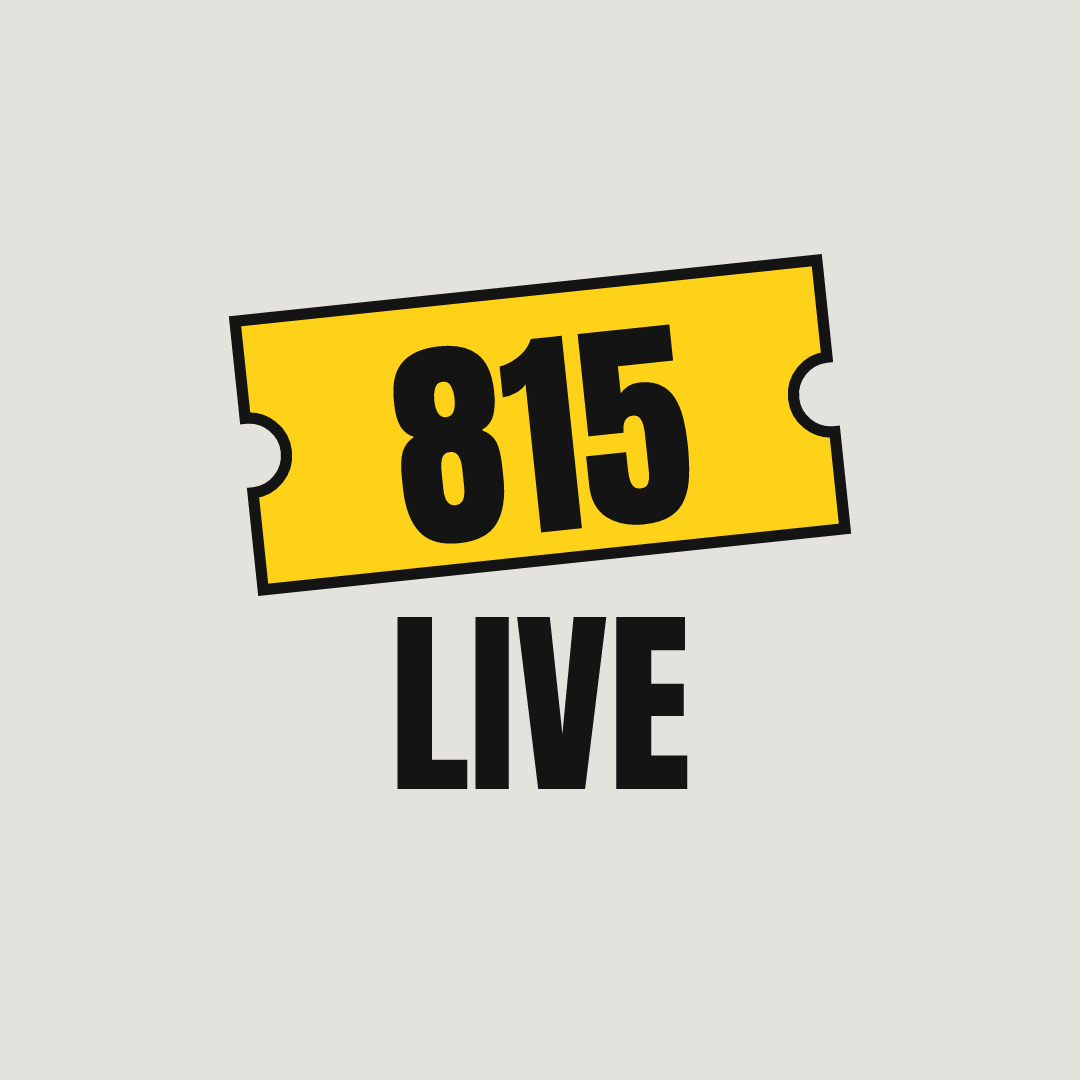
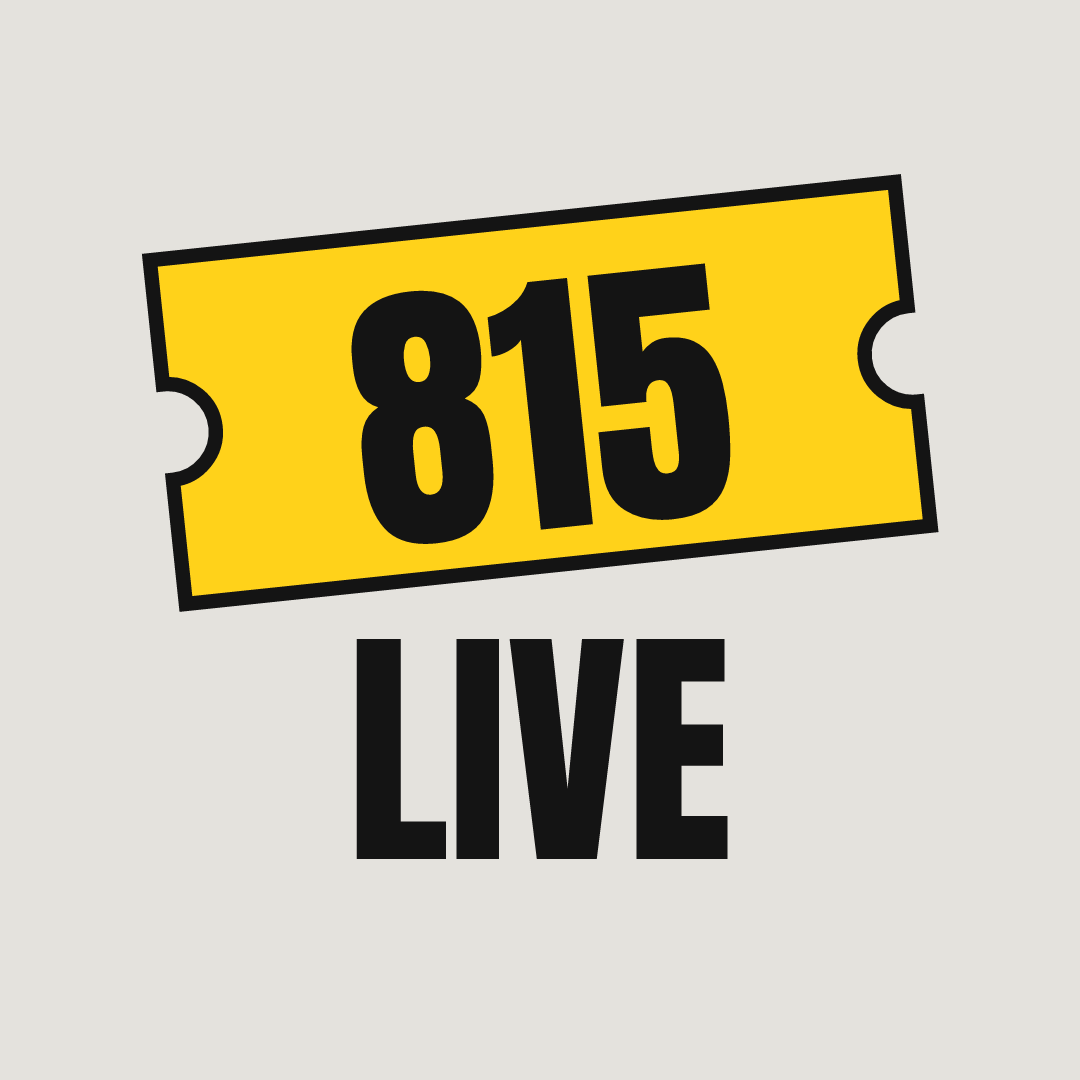
Quiet nights: never say "no live music"; bigger profile mark
Home: a night with no music says "Quiet night for live music. Here's what's
coming up." with the next 7 days right under it (laterWindow quiet mode,
HomeLater component, moved the same way by the inline script), then
"Also happening tonight". Tonight, tomorrow, day, free and live-music pages
reworded the same way. Profile picture mark scaled 1.28x (farthest ink 513 px
of the 540 px circle).

Changed region(s): [[0.1222, 0.1528, 0.8861, 0.7944]]

diff --git a/tests/build.e2e.ts b/tests/build.e2e.ts
@@ -113,12 +113,28 @@ test('home leads with tonight, a 7-day strip and a date picker', () => {
   assert.ok(existsSync('dist/og.png'));
 });
 
-test('nothing tonight: the home page says so and points to the next night with events', () => {
+test('quiet night: "Quiet night for live music", then the next 7 days right under it', () => {
   // A Tuesday; the fixtures' only weekly nights are Wednesday and Saturday.
   const { homeHtml } = buildAt('2027-06-01T18:00:00Z', { data: FIXTURES });
-  assert.match(homeHtml, /<p class="tonight-empty" data-home-empty>/);
-  assert.match(homeHtml, /Next up: <a href="\/tomorrow" data-day-link="2027-06-02">Wednesday, Jun 2<\/a>/);
+  assert.doesNotMatch(homeHtml, /no live music/i);
+  assert.match(homeHtml, /data-home="today" data-quiet>/);
+  assert.match(
+    homeHtml,
+    /<p class="tonight-empty" data-home-empty>Quiet night for live music\. Here's what's coming up\.<\/p>\s*<div class="quiet-slot" data-quiet-slot><section class="home-sec home-later"/,
+  );
+  assert.match(homeHtml, /<span data-later-label>Next 7 days<\/span>/);
+  assert.match(homeHtml, /Wed, Jun 2 – Tue, Jun 8/);
+  assert.match(homeHtml, /data-quiet-slot>[\s\S]*?data-night="2027-06-02">/);
   assert.match(homeHtml, /class="tonight-list" data-home-list hidden/);
+  assert.equal(homeHtml.match(/data-home="later"/g)?.length, 1);
+});
+
+test('a night with music: no quiet note, and the week section follows Tonight', () => {
+  const { homeHtml } = buildAt('2027-06-02T18:00:00Z', { data: FIXTURES }); // Wed: open mic
+  assert.doesNotMatch(homeHtml, /data-quiet>/);
+  assert.match(homeHtml, /<p class="tonight-empty" data-home-empty hidden>/);
+  assert.match(homeHtml, /<div class="quiet-slot" data-quiet-slot><\/div>/);
+  assert.match(homeHtml, /<\/section>\s*<section class="home-sec home-later"/);
 });
 
 test('home sections: today, later this week through Sunday, then coming up', () => {
@@ -403,17 +419,20 @@ test('JSON-LD: MusicEvent for music, SocialEvent for games and karaoke, no bands
   assert.equal(ld('2026-10-31-fixture-karaoke-saturday')['@type'], 'SocialEvent');
 });
 
-test('no music tonight: the empty note, then Also happening, and Next up skips non-music nights', () => {
+test('no music tonight: the quiet note, the next 7 days (music nights only), then Also happening tonight', () => {
   buildAt('2027-06-04T18:00:00Z', { data: FIXTURES }); // Fri: bingo only; Sat: karaoke only; Wed: open mic
   const read = (f: string) => readFileSync(`dist/${f}`, 'utf8');
   const home = read('index.html');
-  assert.match(home, /<p class="tonight-empty" data-home-empty>\s*No live music listed for/);
-  assert.match(home, /class="tonight-list" data-home-list>/); // shown, for the bingo
-  assert.match(home, /data-night="2027-06-04">[\s\S]*?data-also[\s\S]*?Fixture Bingo/);
-  assert.match(home, /Next up: <a href="\/date\/2027-06-09" data-day-link="2027-06-09">/);
+  assert.doesNotMatch(home, /no live music/i);
+  assert.match(home, /<p class="tonight-empty" data-home-empty>Quiet night for live music\./);
+  assert.match(home, /Sat, Jun 5 – Fri, Jun 11/);
+  const slot = home.slice(home.indexOf('data-quiet-slot'), home.indexOf('class="tonight-list"'));
+  assert.deepEqual([...slot.matchAll(/data-night="([\d-]+)">/g)].map((m) => m[1]), ['2027-06-09']); // Sat is karaoke only
+  assert.match(home, /class="tonight-list" data-home-list>/); // shown, for the bingo, after the week
+  assert.match(home, /data-night="2027-06-04">[\s\S]*?data-also[\s\S]*?Also happening<span class="also-tonight"> tonight[\s\S]*?Fixture Bingo/);
   assert.match(home, /<h2>Every week<\/h2>[\s\S]*Fixture Open Mic[\s\S]*<h2>Also every week<\/h2>[\s\S]*Fixture Karaoke/);
   const tonight = main(read('tonight.html'));
-  assert.match(tonight, /No live music listed for tonight/);
+  assert.match(tonight, /Quiet night for live music/);
   assert.ok(tonight.indexOf('Fixture Bingo') > tonight.indexOf('<section class="also"'));
   const free = main(read('free.html'));
   assert.ok(free.indexOf('Fixture Bingo') > free.indexOf('Also free') && free.indexOf('Fixture Open Mic') < free.indexOf('Also free'));

diff --git a/src/lib/shows.ts b/src/lib/shows.ts
@@ -62,15 +62,16 @@ export const dayPart = (now: Date): 'Today' | 'Tonight' => (chicagoHour(now) >= 
 /**
  * The home page's second section after a given night: tomorrow through
  * Sunday, or the next 7 days on Saturday and Sunday so it never shows a
- * single day. index.astro's inline script repeats this.
+ * single day. A quiet night (no music today) also gets the next 7 days, shown
+ * right under the "Quiet night" note. index.astro's inline script repeats this.
  */
-export function laterWindow(night: string): { start: string; end: string; label: string } {
+export function laterWindow(night: string, quiet = false): { start: string; end: string; label: string } {
   const wd = weekday(night);
-  const weekend = wd === 0 || wd === 6;
+  const week = quiet || wd === 0 || wd === 6;
   return {
     start: addDays(night, 1),
-    end: addDays(night, weekend ? 7 : 7 - wd),
-    label: weekend ? 'Next 7 days' : 'Later this week',
+    end: addDays(night, week ? 7 : 7 - wd),
+    label: week ? 'Next 7 days' : 'Later this week',
   };
 }
 

diff --git a/tests/time.test.ts b/tests/time.test.ts
@@ -114,6 +114,7 @@ test('later window: through Sunday on weekdays, next 7 days on weekends', () => 
   assert.deepEqual(laterWindow('2026-10-30'), { start: '2026-10-31', end: '2026-11-01', label: 'Later this week' }); // Fri
   assert.deepEqual(laterWindow('2026-10-31'), { start: '2026-11-01', end: '2026-11-07', label: 'Next 7 days' }); // Sat
   assert.deepEqual(laterWindow('2026-11-01'), { start: '2026-11-02', end: '2026-11-08', label: 'Next 7 days' }); // Sun
+  assert.deepEqual(laterWindow('2026-10-26', true), { start: '2026-10-27', end: '2026-11-02', label: 'Next 7 days' }); // quiet Mon
 });
 
 test('build day part: Today before 5 PM Chicago, Tonight after', () => {

diff --git a/src/styles/global.css b/src/styles/global.css
@@ -599,6 +599,25 @@ nav {
 .tonight-empty {
   margin: 0 0 0.75rem;
   font-size: 1.05rem;
+  font-weight: 700;
+}
+
+/* Quiet night (no music today): the week ahead sits right under the note,
+   then tonight's other events, labelled "Also happening tonight". */
+.quiet-slot .home-sec {
+  margin-top: 0.5rem;
+}
+
+.tonight[data-quiet] .tonight-list {
+  margin-top: 2rem;
+}
+
+.also-tonight {
+  display: none;
+}
+
+.tonight[data-quiet] .tonight-list .also-tonight {
+  display: inline;
 }
 
 .tonight-list {

diff --git a/DESIGN.md b/DESIGN.md
@@ -93,7 +93,7 @@ this palette (`C`), the fonts, `ticket()`, `wordmark()`, `tape()` and
 
 | Image | Size | Script | Notes |
 | --- | --- | --- | --- |
-| Profile picture | 1080×1080 | `npm run social:brand` | Ticket stub (no "ADMIT ONE") over LIVE; all art within ~430 px of centre so the circle crop keeps it. No small text. |
+| Profile picture | 1080×1080 | `npm run social:brand` | Ticket stub (no "ADMIT ONE") over LIVE at `PROFILE_SCALE` 1.28; the farthest ink (a ticket corner) is 513 px from centre, inside the 540 px circle crop. No small text. |
 | Facebook cover | 1640×624 | `npm run social:brand` | Ticket + 815LIVE.COM + tape tagline inside the middle 1200 px; skyline full width below a 6px rule. |
 | Link preview (og:image) | 1200×630 | `npm run social:brand` | The cover's layout; written to `public/og.png`. |
 | Daily lineup, feed | 1080×1350 | `npm run social:tonight` | See below. |
@@ -118,3 +118,7 @@ else music on one tight image with other events in the room left (dropped
 karaoke-first with a "+ N more at 815live.com" line), else music split over
 images. Quiet nights (fewer than 3 music listings) are one "Tonight + coming
 up" image; posts never say "no live music listed".
+
+The site follows the same rule: it never says "no live music". A quiet night
+on the home page reads "Quiet night for live music. Here's what's coming up."
+with the next 7 days right under it, then "Also happening tonight".
